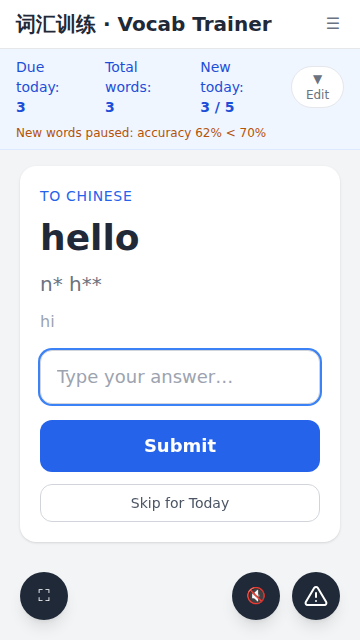
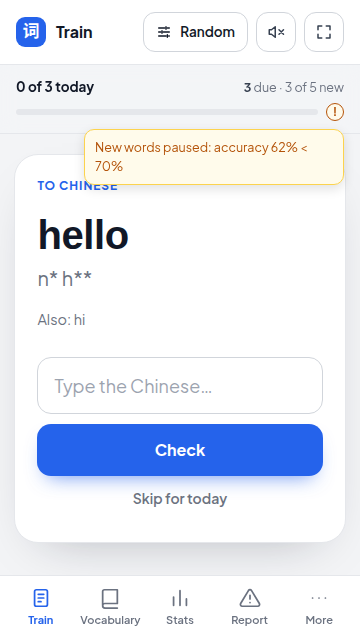
Hide the new-words-paused sentence behind a tap-to-open ! hint
Fixes #522

Claude-Session: https://claude.ai/code/session_01BSF7Kz5gbdBRLLvojjoaoh

diff --git a/e2e/quiz.spec.js b/e2e/quiz.spec.js
@@ -2756,14 +2756,21 @@ test.describe('Quiz – accuracy baseline notice', () => {
     });
     await page.goto('/train');
 
+    // Issue #522: the sentence is hidden to save space; a "!" next to the
+    // progress bar opens it in a small layover on tap.
     const notice = page.locator('#stats-new-paused');
+    const hint = page.locator('#stats-new-paused-btn');
+    await expect(hint).toBeVisible();
+    await expect(notice).toBeHidden();
+    await captureForPR(page, 'train-accuracy-paused');
+    await page.setViewportSize({ width: 360, height: 640 });
+    await hint.click();
     await expect(notice).toBeVisible();
     await expect(notice).toContainText('62%');
     await expect(notice).toContainText('70%');
-    await captureForPR(page, 'train-accuracy-paused');
-    await page.setViewportSize({ width: 360, height: 640 });
-    await expect(notice).toBeVisible();
     await captureForPR(page, 'train-accuracy-paused-mobile');
+    await page.locator('#train-container').click({ position: { x: 5, y: 5 } });
+    await expect(notice).toBeHidden();
     // A stats request can still be in the handler when the test ends; its
     // route.fetch() response is then disposed and response.json() throws.
     await page.unrouteAll({ behavior: 'ignoreErrors' });
@@ -2773,5 +2780,6 @@ test.describe('Quiz – accuracy baseline notice', () => {
     await page.goto('/train');
     await expect(page.locator('#stats-new')).not.toHaveText('—');
     await expect(page.locator('#stats-new-paused')).toBeHidden();
+    await expect(page.locator('#stats-new-paused-btn')).toBeHidden();
   });
 });

diff --git a/service/frontend/app.css b/service/frontend/app.css
@@ -403,7 +403,12 @@ label.st-text { cursor: pointer; }
 .tr-icon-btn.hidden { display: none; }
 .tr-drill-pill { display: inline-flex; align-items: center; gap: 6px; min-height: 40px; padding: 8px 12px; border-radius: 12px; border: 0; background: #f59e0b; color: #fff; font-size: 13px; font-weight: 700; cursor: pointer; font-family: inherit; }
 .tr-drill-pill:hover { background: #d97706; }
-.tr-notice { max-width: 720px; margin: 0 auto; padding: 0 clamp(16px,4vw,32px) 10px; font-size: 12.5px; color: #b45309; }
+.tr-progress-trackrow { position: relative; display: flex; align-items: center; gap: 8px; }
+.tr-progress-trackrow .tr-progress-track { flex: 1 1 auto; }
+.tr-pause-hint { flex: none; width: 18px; height: 18px; padding: 0; border-radius: 99px; border: 1px solid #b45309; background: #fffbeb; color: #b45309; font-size: 12px; font-weight: 700; line-height: 1; cursor: pointer; }
+.tr-pause-hint.hidden { display: none; }
+.tr-pause-pop { position: absolute; right: 0; top: calc(100% + 8px); z-index: 30; max-width: 260px; padding: 8px 10px; border-radius: 10px; border: 1px solid #fcd34d; background: #fffbeb; box-shadow: 0 4px 12px rgba(0,0,0,.12); font-size: 12.5px; color: #b45309; }
+.tr-pause-pop.hidden { display: none; }
 .tr-main { width: 100%; max-width: 600px; margin: 0 auto; padding: clamp(20px,5vw,40px) clamp(12px,4vw,24px) 48px; }
 .tr-main #empty-state { max-width: 680px; }
 .tr-card { background: #fff; border: 1px solid #e5e7eb; border-radius: 24px; box-shadow: 0 20px 50px -30px rgba(17,24,39,.35); padding: clamp(22px,5vw,36px); text-align: left; }

diff --git a/service/frontend/train-stats.js b/service/frontend/train-stats.js
@@ -156,6 +156,26 @@ function renderSessionProgress(doneToday, dueLeft) {
   if (bar) bar.style.width = p.pct + '%';
 }
 
+// The "new words paused" sentence sits in a small layover behind a "!" button
+// next to the progress bar, so it takes no room on small screens (issue #522).
+function setNewPausedOpen(open) {
+  const pop = document.getElementById('stats-new-paused');
+  const btn = document.getElementById('stats-new-paused-btn');
+  if (!pop || !btn) return;
+  pop.classList.toggle('hidden', !open);
+  btn.setAttribute('aria-expanded', String(open));
+}
+
+document.addEventListener('click', (e) => {
+  const btn = document.getElementById('stats-new-paused-btn');
+  if (!btn) return;
+  if (btn.contains(e.target)) {
+    setNewPausedOpen(btn.getAttribute('aria-expanded') !== 'true');
+  } else {
+    setNewPausedOpen(false);
+  }
+});
+
 async function loadStats() {
   try {
     const params = new URLSearchParams();
@@ -174,9 +194,11 @@ async function loadStats() {
     renderSessionProgress(stats.today_attempts, dueLeft);
     const pause = accuracyPauseParams(stats);
     const pausedEl = document.getElementById('stats-new-paused');
-    if (pausedEl) {
+    const pausedBtn = document.getElementById('stats-new-paused-btn');
+    if (pausedEl && pausedBtn) {
       pausedEl.textContent = pause ? t('statsBar.newPaused', pause) : '';
-      pausedEl.classList.toggle('hidden', !pause);
+      pausedBtn.classList.toggle('hidden', !pause);
+      if (!pause) setNewPausedOpen(false);
     }
     renderDifficultDrill();
   } catch (_) {}

diff --git a/service/frontend/train.html b/service/frontend/train.html
@@ -9,7 +9,11 @@
           <span id="session-progress-label" class="tr-progress-label">—</span>
           <span class="tr-progress-meta"><strong id="stats-due">—</strong> <span data-i18n="session.due">due</span> · <span id="stats-new">—</span></span>
         </div>
-        <div class="tr-progress-track"><div id="session-progress-bar" class="tr-progress-fill" style="width:0%"></div></div>
+        <div class="tr-progress-trackrow">
+          <div class="tr-progress-track"><div id="session-progress-bar" class="tr-progress-fill" style="width:0%"></div></div>
+          <button id="stats-new-paused-btn" type="button" class="hidden tr-pause-hint" aria-expanded="false" aria-controls="stats-new-paused" aria-label="New words paused" data-i18n-aria-label="statsBar.newPausedLabel">!</button>
+          <div id="stats-new-paused" class="hidden tr-pause-pop" role="status"></div>
+        </div>
       </div>
       <div class="tr-bar-actions">
         <span id="difficult-drill-bar" class="hidden">
@@ -31,7 +35,6 @@
         </button>
       </div>
     </div>
-    <div id="stats-new-paused" class="hidden tr-notice"></div>
   </div>
 
   <!-- Main content -->

diff --git a/service/frontend/i18n.js b/service/frontend/i18n.js
@@ -24,6 +24,7 @@ const I18N = {
     'statsBar.totalWords': 'Total words:',
     'statsBar.newToday': 'New today:',
     'statsBar.newPaused': 'New words paused: accuracy {pct}% < {min}%',
+    'statsBar.newPausedLabel': 'New words paused',
 
     // Quiz modes
     'mode.progressive': 'Progressive',
@@ -1038,6 +1039,7 @@ const I18N = {
     'statsBar.totalWords': '总词数：',
     'statsBar.newToday': '今日新词：',
     'statsBar.newPaused': '新词已暂停：正确率 {pct}% < {min}%',
+    'statsBar.newPausedLabel': '新词已暂停',
 
     // Quiz modes
     'mode.progressive': '渐进',
@@ -2052,6 +2054,7 @@ const I18N = {
     'statsBar.totalWords': 'Wörter gesamt:',
     'statsBar.newToday': 'Neu heute:',
     'statsBar.newPaused': 'Neue Wörter pausiert: Trefferquote {pct}% < {min}%',
+    'statsBar.newPausedLabel': 'Neue Wörter pausiert',
 
     // Quiz modes
     'mode.progressive': 'Fortschreitend',

diff --git a/README.md b/README.md
@@ -197,7 +197,7 @@ In **Settings → Daily Learning**, each user can enable optional gates. These g
 | **Max Struggling words** | Your current Struggling bucket count is ≥ the threshold |
 | **Max Learning words** | Your current Learning bucket count is ≥ the threshold |
 | **Max New bucket words** | Your current New bucket count (already-introduced words that haven't graduated past the initial learning phase yet) is ≥ the threshold |
-| **Min. accuracy of the last 3 days** | Your accuracy over the 3 days before today (all answers of these days together) is below the threshold in %. Today is not included, so the gate does not change during a session. Days without answers are not counted. If these 3 days have no answers, the gate does not block. Default: off, 70%. When this gate blocks, the stats bar on the Train page shows "New words paused: accuracy X% < Y%". |
+| **Min. accuracy of the last 3 days** | Your accuracy over the 3 days before today (all answers of these days together) is below the threshold in %. Today is not included, so the gate does not change during a session. Days without answers are not counted. If these 3 days have no answers, the gate does not block. Default: off, 70%. When this gate blocks, the Train page shows a small "!" right of the progress bar. Tap it to read "New words paused: accuracy X% < Y%". |
 
 ### Cooldown between new words
 
